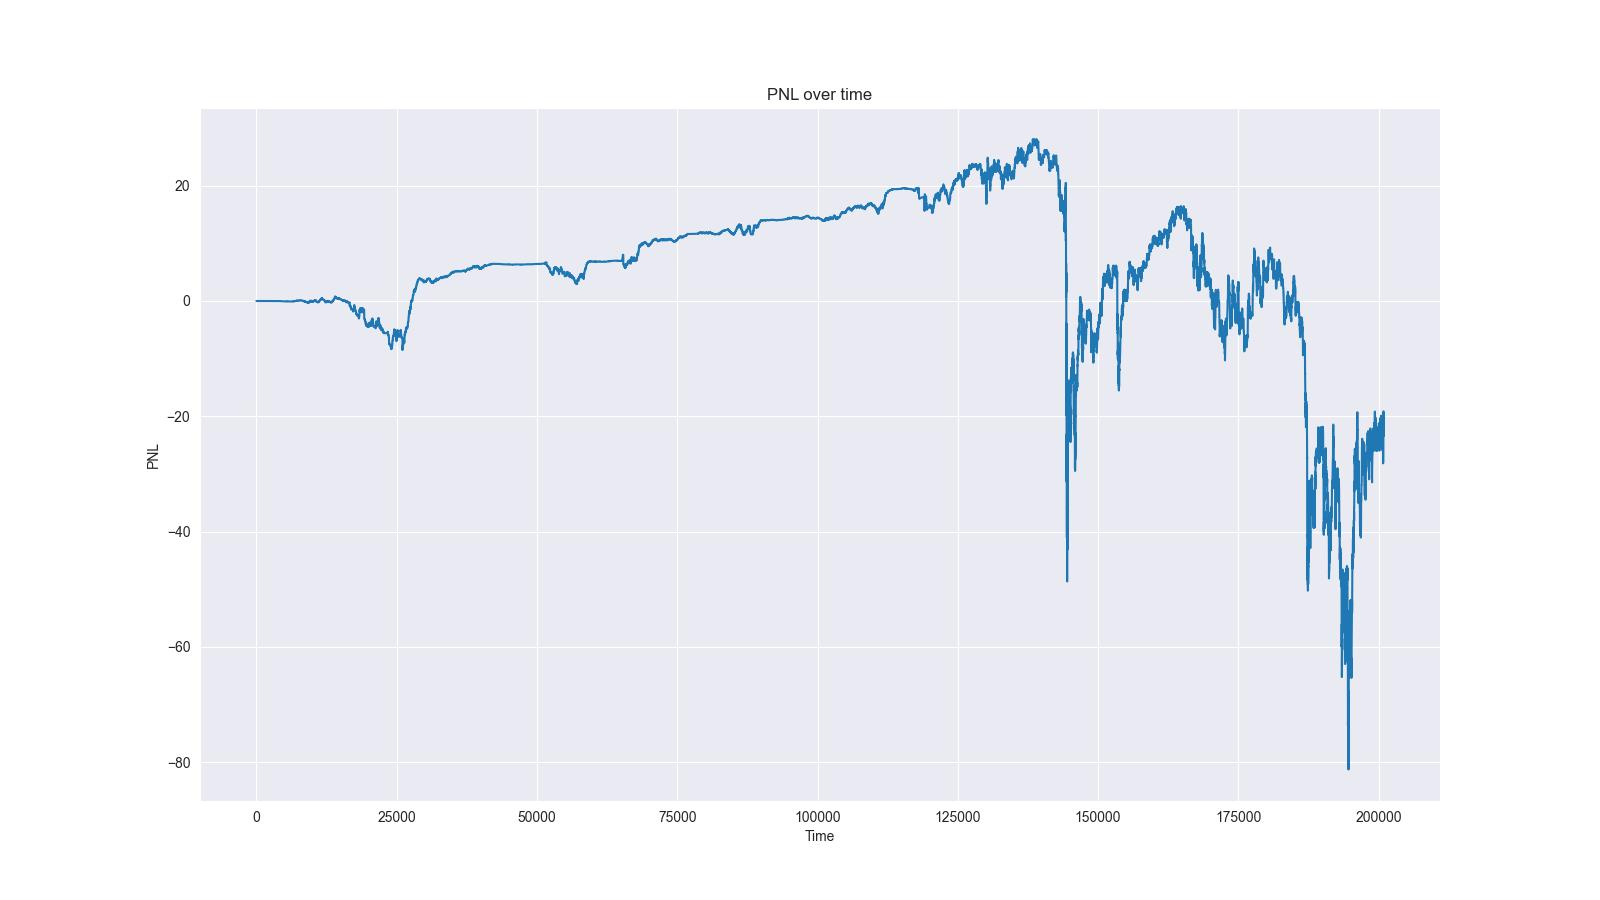
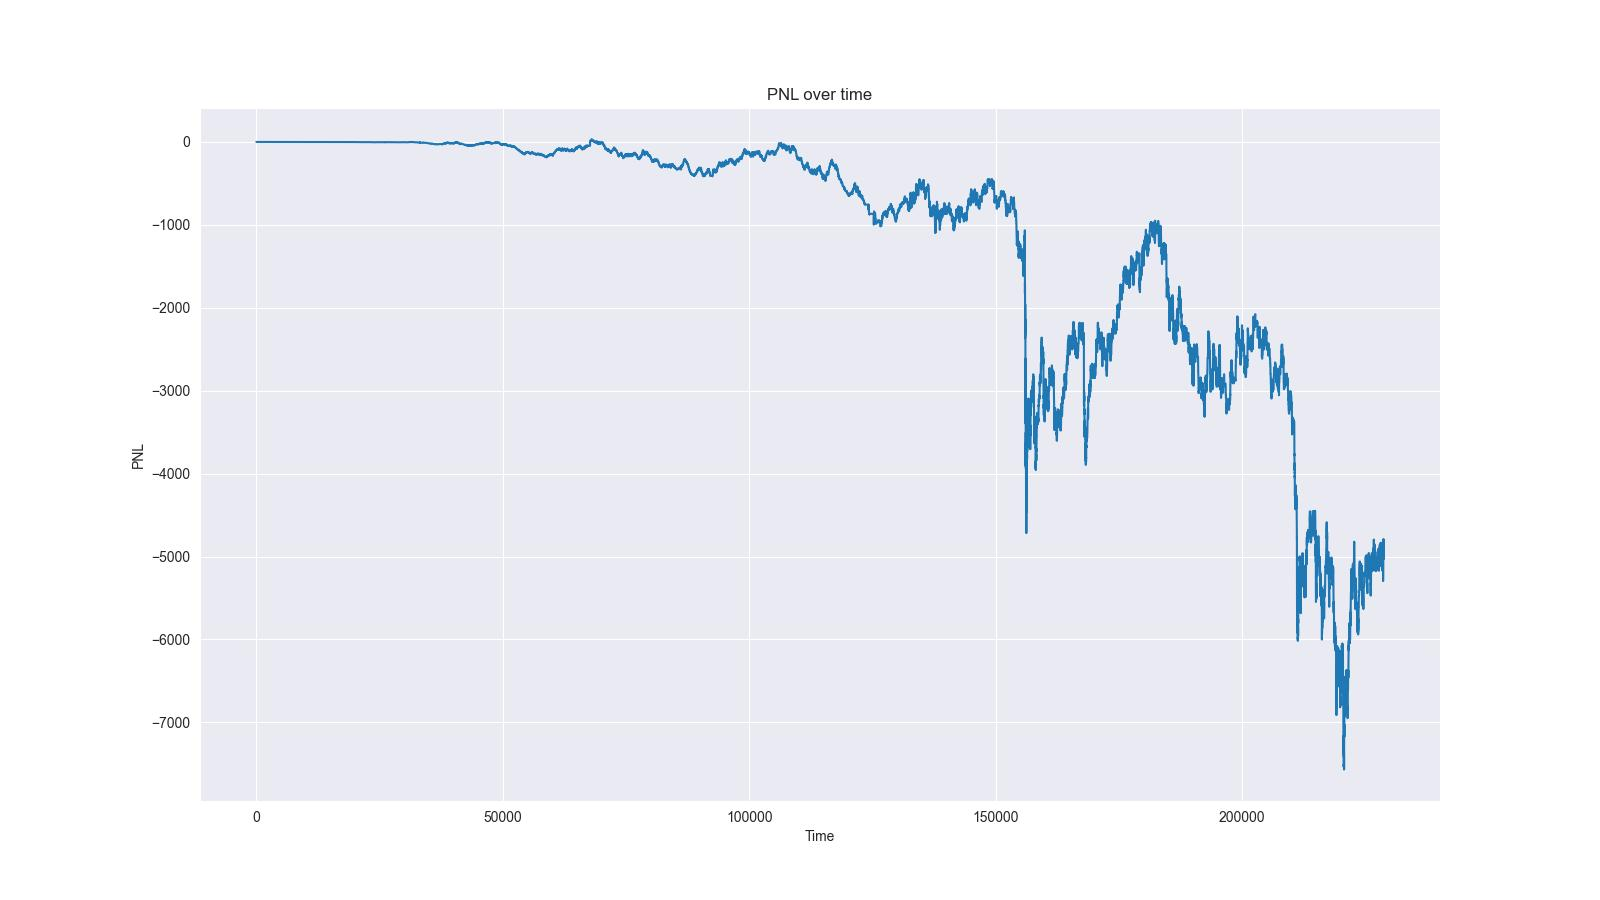
fix cur_pos update

diff --git a/simulator/strategy.py b/simulator/strategy.py
@@ -83,6 +83,10 @@ class StoikovStrategy:
                 elif isinstance(update, OwnTrade):
                     trades_list.append(update)
                     # delete executed trades from the dict
+                    if update.side == 'ask':
+                        self.cur_pos -= update.size
+                    else:
+                        self.cur_pos += update.size
                     if update.order_id in ongoing_orders.keys():
                         ongoing_orders.pop(update.order_id)
                 else:
